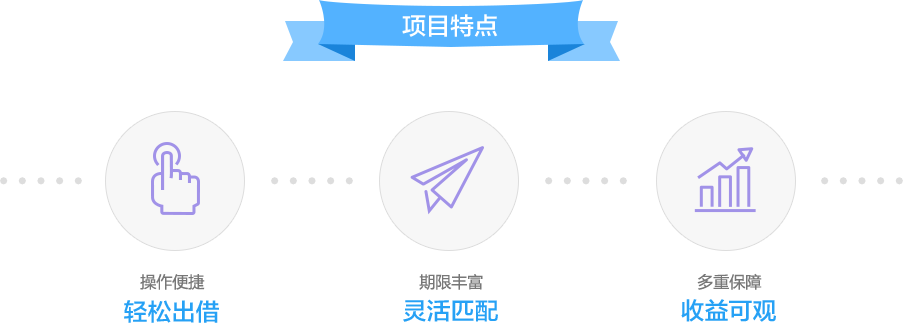
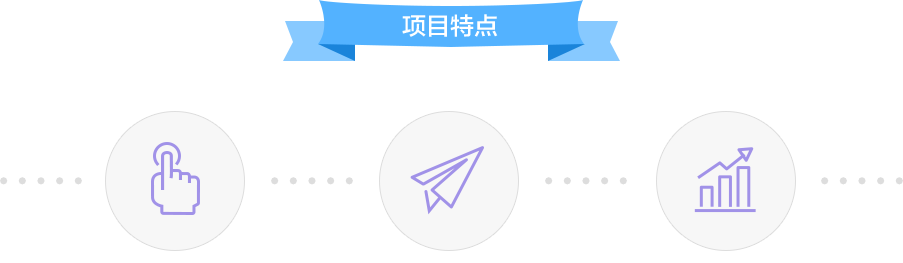
I'm too lazy, nothing left

diff --git a/apps/p2p-web/topic-xiao-fei-dai/less/index.less b/apps/p2p-web/topic-xiao-fei-dai/less/index.less
@@ -220,10 +220,8 @@
 
         .featureBox {
           width: 965px;
-          padding-bottom: 50px;
-          padding-left: 66px;
           margin: 0 auto;
-          height: 380px;
+          height: 340px;
           background: url("../images/feature.png") no-repeat center;
         }
       }
@@ -492,4 +490,17 @@
       margin-top: 8px;
     }
   }
+}
+
+.feature-desc {
+    text-align: center;
+    width: 80%;
+    margin: 20px auto;
+    color: #777777;
+    font-size: 16px;
+
+    div {
+      font-size: 24px;
+      color: #26a1f5;
+    }
 }

diff --git a/apps/p2p-web/lib/less/common.less b/apps/p2p-web/lib/less/common.less
@@ -20,6 +20,7 @@ img {
 }
 
 ul {
+  -webkit-padding-start: 0;
   -webkit-margin-before: 0;
 }
 
